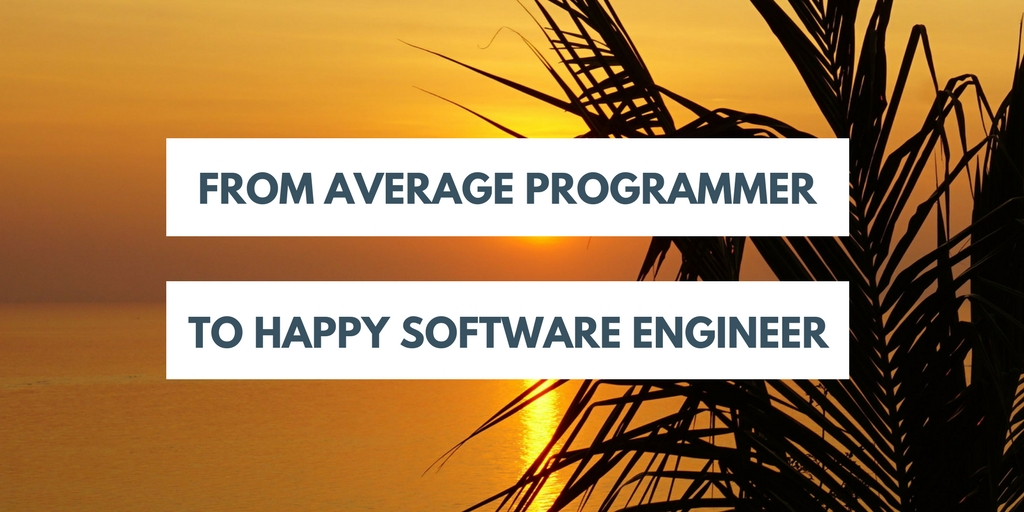
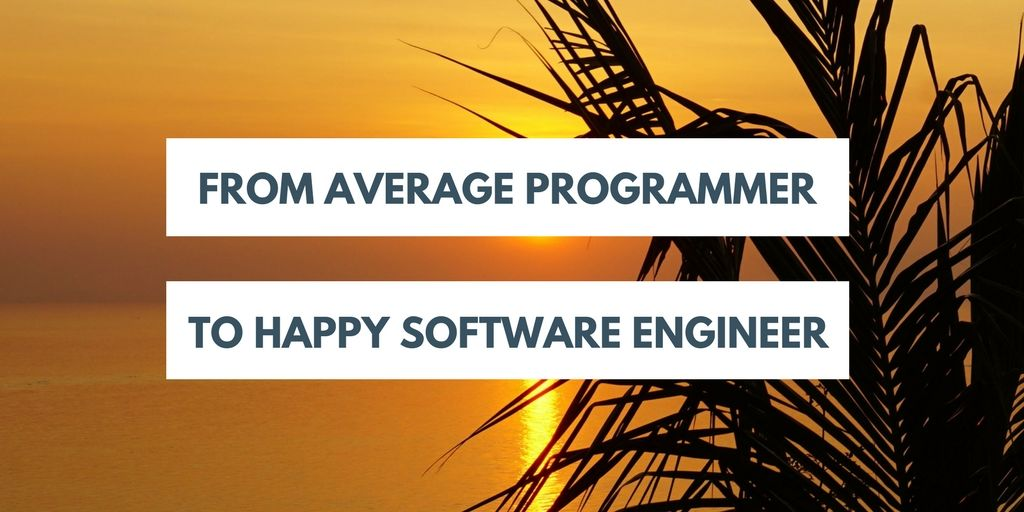
optimize promo images

diff --git a/pages/posts/en/2018-02-sokoban-player/sokoban-player.md b/pages/posts/en/2018-02-sokoban-player/sokoban-player.md
@@ -9,21 +9,24 @@ lang: en
 I would like to present you my side project I've been working on for the past few months. I called it Sokoban Player because the idea is that you can play any level you want. You just need to insert it in the [Sokoban Level Format](https://github.com/krzysu/elm-sokoban-player/wiki/Sokoban-Level-Format).
 
 Other features include:
-- build and manage your own playlist,
-- no login or account required, your levels and scores are stored only in your browser, on your own device,
-- works perfectly offline and on mobile devices,
-- you can easily share any level,
-- levels shared with you are automatically added to your playlist.
+
+* build and manage your own playlist,
+* no login or account required, your levels and scores are stored only in your browser, on your own device,
+* works perfectly offline and on mobile devices,
+* you can easily share any level,
+* levels shared with you are automatically added to your playlist.
 
 Check it out here: [Sokoban Player](https://sokoban-player.netlify.com/)
 
 I would like to recommend you a few nice and easy levels to play as a starter:
-- level by Alberto García, from the pack "Alberto García 1-3" - [play it now](https://sokoban-player.netlify.com/G6AHGA4GAH2AGD2GAHA2G2ADAHAGDFAFAHAGD3FAHAGD4AHABGAH4A)
-- level by Péter Asztalos, from the pack "A.K.K. Informatika" - [play it now](https://sokoban-player.netlify.com/8AHA2GA3GAHA3GD2GAHA2GA2DGAH2AGA3GAHA2FGDAGAHA2F3GBAH8A)
+
+* level by Alberto García, from the pack "Alberto García 1-3" - [play it now](https://sokoban-player.netlify.com/G6AHGA4GAH2AGD2GAHA2G2ADAHAGDFAFAHAGD3FAHAGD4AHABGAH4A)
+* level by Péter Asztalos, from the pack "A.K.K. Informatika" - [play it now](https://sokoban-player.netlify.com/8AHA2GA3GAHA3GD2GAHA2GA2DGAH2AGA3GAHA2FGDAGAHA2F3GBAH8A)
 
 And one a little bit more challenging:
-- level by Thomas Reinke, from the pack "81" - [play it now](https://sokoban-player.netlify.com/2G4AH2GA2G5AH3AGFA3GAHAB2GD4GAHAG2AE5AHA3GD2GAH3AGF2GAH2GA2G3AH2G4A)
+
+* level by Thomas Reinke, from the pack "81" - [play it now](https://sokoban-player.netlify.com/2G4AH2GA2G5AH3AGFA3GAHAB2GD4GAHAG2AE5AHA3GD2GAH3AGF2GAH2GA2G3AH2G4A)
 
 I'm looking forward to your feedback! You can find me on [Twitter](https://twitter.com/krzysu).
 
-[![sokoban player screenshot](./sokoban-player-1.png)](https://sokoban-player.netlify.com/8AHA2GA3GAHA3GD2GAHA2GA2DGAH2AGA3GAHA2FGDAGAHA2F3GBAH8A)
+[![sokoban player](./promo.jpg)](https://sokoban-player.netlify.com/8AHA2GA3GAHA3GD2GAHA2GA2DGAH2AGA3GAHA2FGDAGAHA2F3GBAH8A)

diff --git a/pages/posts/en/2018-03-product-engineer/product-engineer.md b/pages/posts/en/2018-03-product-engineer/product-engineer.md
@@ -1,6 +1,6 @@
 ---
 title: How to organize teams to get the best out of them
-date: "2018-03-22"
+date: "2018-03-21"
 layout: post
 path: "/how-to-organize-teams-to-get-the-best-out-of-them/"
 lang: en
